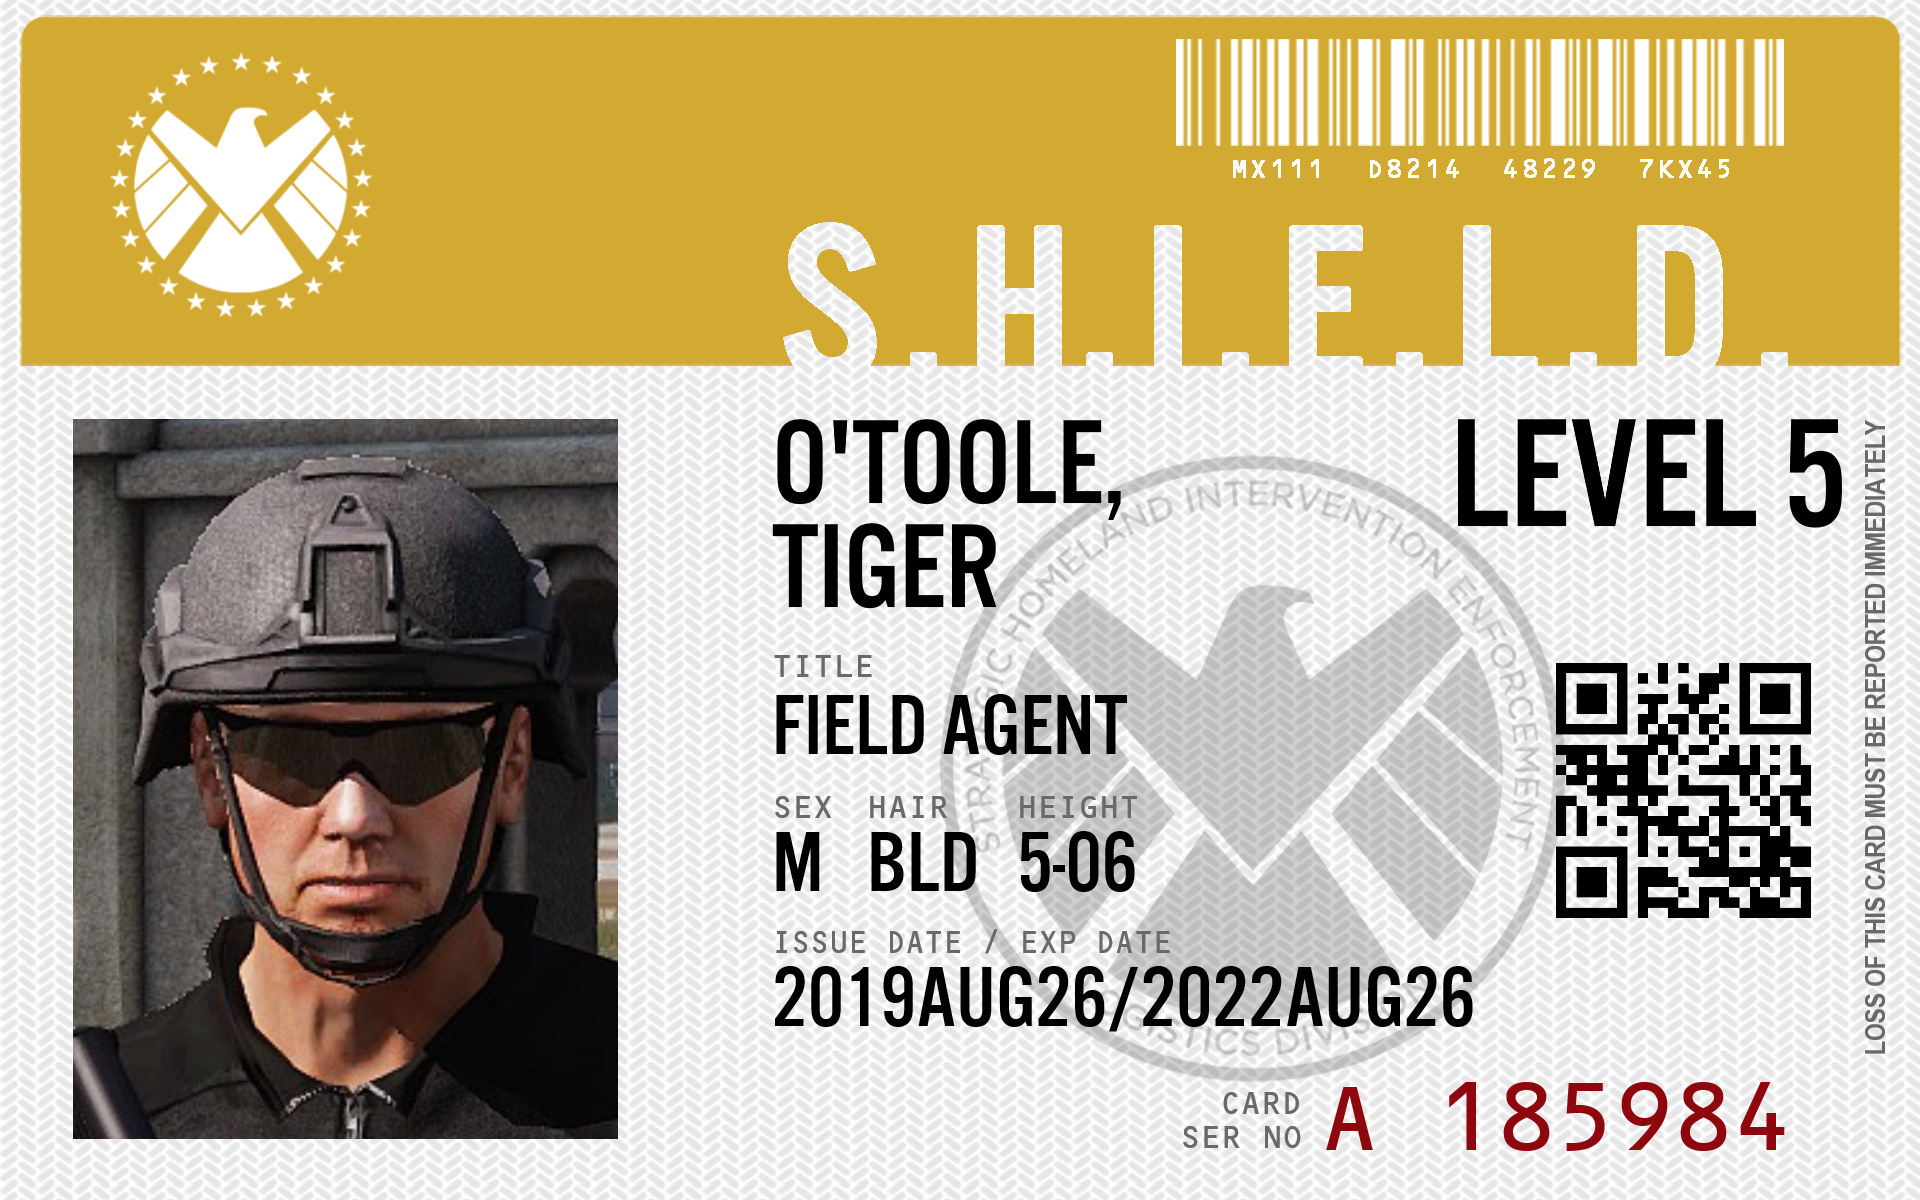
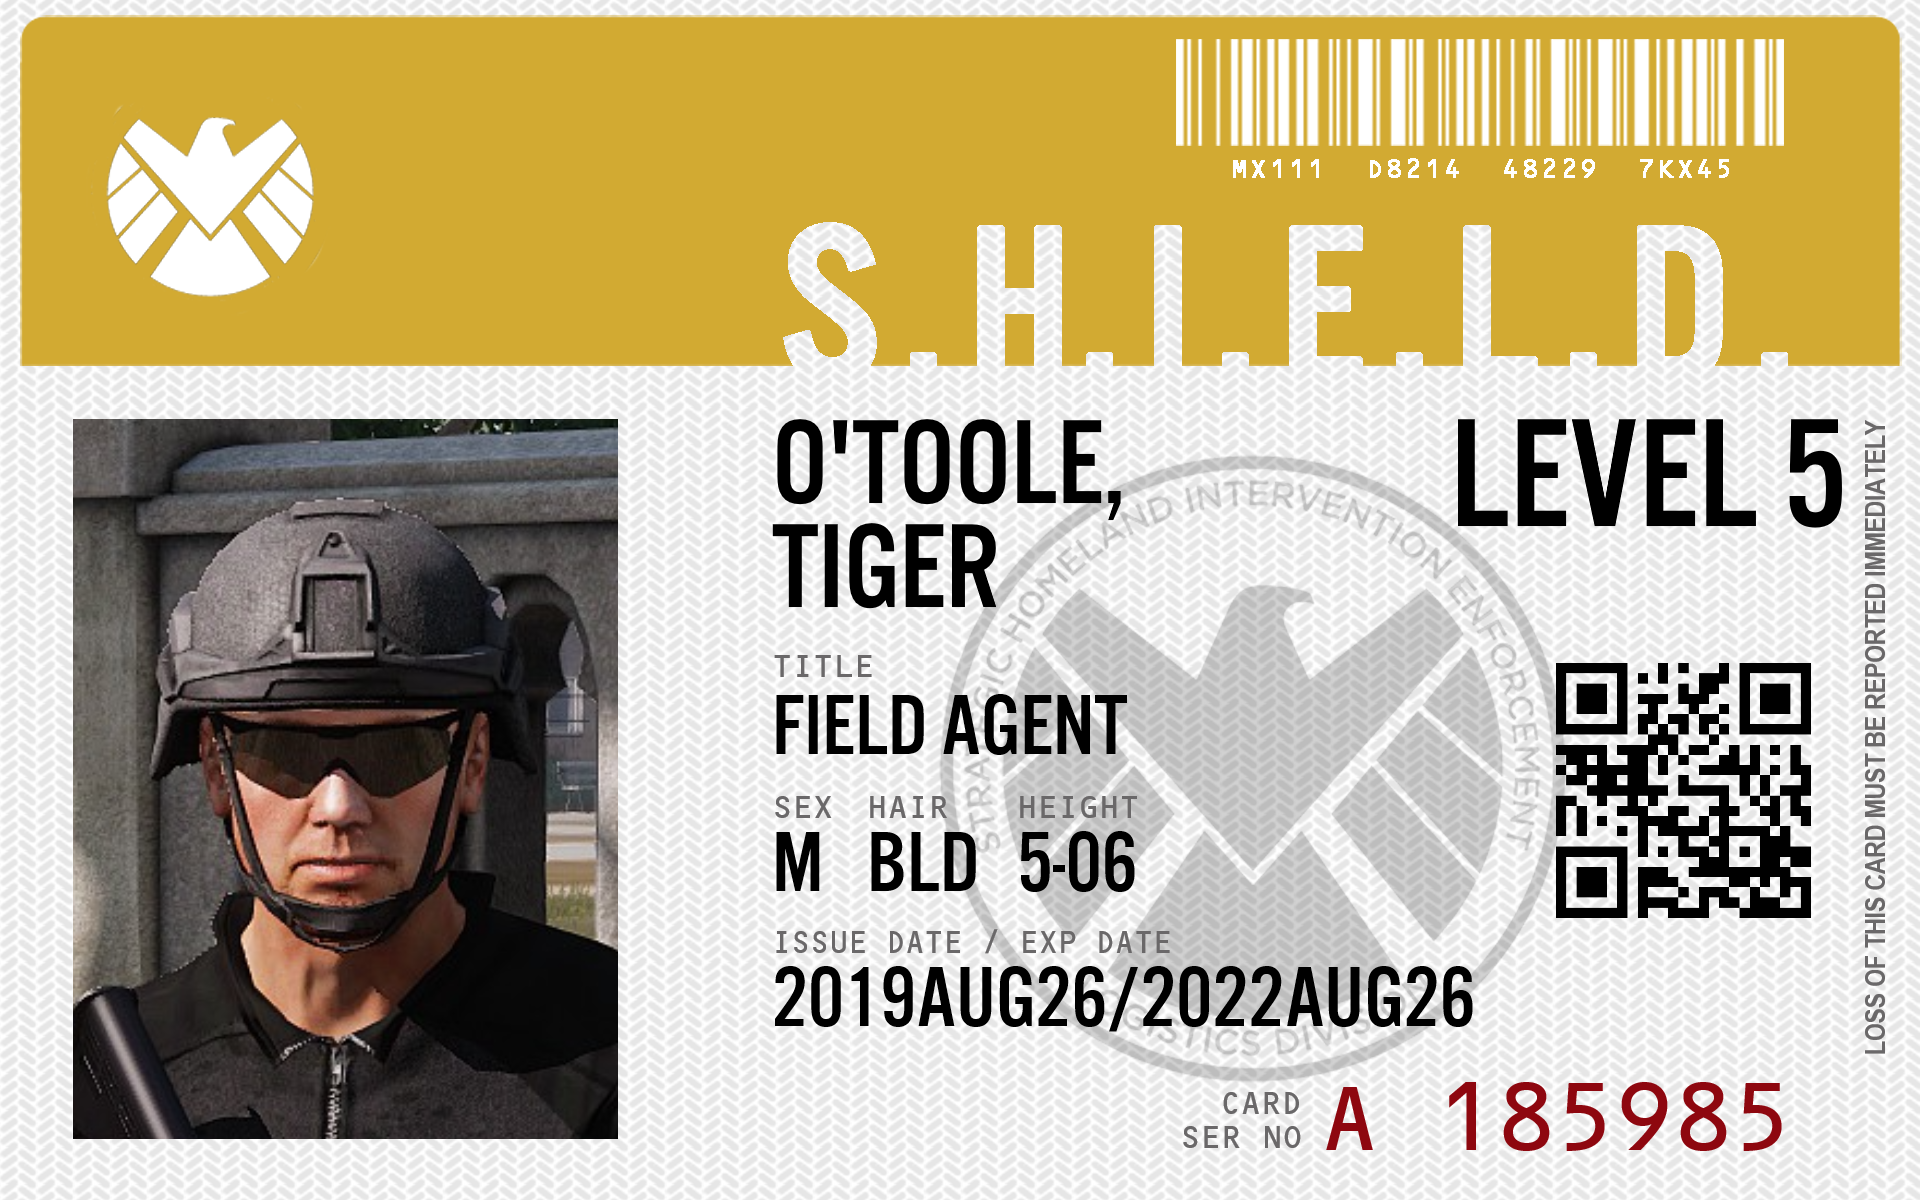
Updated

diff --git a/AgentInformation/A185985.html b/AgentInformation/A185985.html
@@ -1,0 +1,13 @@
+<center>
+<h1>Tiger O'Toole</h1>
+
+<h3>ID Card</h3>
+<img src="images\badges\Level_5\Level_5_O'Toole_badge.png" alt="Failed" width="420" height="250">
+
+<br></br>
+
+<h3>Other Information</h3>
+
+<h4>Title: Field Agent</h4>
+<h4>Role: Asst. Teamleader</h4>
+<h4>Security Level: 5</h4>
